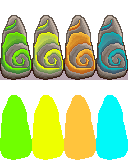
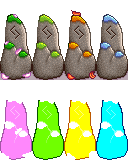
field stone edits

diff --git a/Buildings/FieldStone.cs b/Buildings/FieldStone.cs
@@ -3,6 +3,8 @@ using Microsoft.Xna.Framework;
 using Microsoft.Xna.Framework.Graphics;
 using Netcode;
 using StardewValley;
+using StardewValley.Extensions;
+using StardewValley.GameData.Buildings;
 using StardewValley.TerrainFeatures;
 using StarModGen.Lib;
 using System.Xml.Serialization;
@@ -17,8 +19,19 @@ public class FieldStone : EffectBuilding
 	private static EffectState state = new() { VerticalOffset = true, DepthOffset = 1f };
 
 	private readonly NetInt radius = new();
+	private readonly SpriteEmitter particles = new("Runes");
+	private Color[] _colors = [];
+	private Color[] Colors
+	{
+		get
+		{
+			if (_colors.Length is 0)
+				_colors = LoadColors();
+			return _colors;
+		}
+	}
 
-    protected override EffectState effectState 
+	protected override EffectState effectState 
 	{ 
 		get => state; 
 		set => state = value;
@@ -29,7 +42,7 @@ public class FieldStone : EffectBuilding
 		set => radius.Value = value;
 	}
 
-    public FieldStone(Vector2 tile) : base(tile, ID) { }
+	public FieldStone(Vector2 tile) : base(tile, ID) { }
 
 	public FieldStone() : base() { }
 
@@ -37,6 +50,56 @@ public class FieldStone : EffectBuilding
 	{
 		base.initNetFields();
 		NetFields.AddField(radius);
+	}
+
+	public override void Update(GameTime time)
+	{
+		base.Update(time);
+		float depth = (tileY.Value * 64) / 10000f;
+		particles.Update(time, depth);
+
+		float chance = (Radius * 2 + tilesWide.Value) * (Radius * 2 + tilesHigh.Value) * .005f;
+		if (Game1.random.NextBool(chance) && Game1.currentLocation is GameLocation where)
+		{
+			// effect bounds
+			var bounds = this.GetBounds();
+			bounds.Inflate(Radius, Radius);
+
+			// tile space
+			var pnt = Game1.random.NextPoint(bounds).ToVector2();
+			if (where.terrainFeatures.TryGetValue(pnt, out var tf) && tf is HoeDirt)
+			{
+				// local world space
+				pnt = new(
+					(pnt.X - tileX.Value) * 64f + (float)Game1.random.NextDouble() * 16f - 8f, 
+					(pnt.Y - tileY.Value) * 64f + (float)Game1.random.NextDouble() * 16f - 8f
+				);
+				var part = particles.Emit(pnt, depth + pnt.Y / 10000f);
+				part.motion = new((float)Game1.random.NextDouble() * 1f - .5f, -1f);
+				var which = Game1.random.Next(4) * 16;
+				part.sourceRect.X += which;
+				part.sourceRectStartingPos.X += which;
+				part.color = Colors[where.GetSeasonIndex()];
+			}
+		}
+	}
+
+    public override void draw(SpriteBatch b)
+    {
+        base.draw(b);
+		particles.Draw(b, Game1.GlobalToLocal(new(tileX.Value * 64f, tileY.Value * 64f)));
+    }
+
+
+	public override BuildingData ReloadBuildingData(bool forUpgrade = false, bool forConstruction = false)
+	{
+		var data = base.ReloadBuildingData(forUpgrade, forConstruction);
+
+		_colors = [];
+		if (this.TryGetCustomField(data, MOD_ID + "_EffectRadius", out var s) && int.TryParse(s, out var r))
+			Radius = r;
+
+		return data;
 	}
 
 	[ModEvent]
@@ -49,6 +112,24 @@ public class FieldStone : EffectBuilding
 			.With<HoeDirt>(nameof(HoeDirt.GetFertilizerWaterRetentionChance)).Postfix(ModifyWater)
 			.With(nameof(HoeDirt.GetFertilizerSpeedBoost)).Postfix(ModifySpeed)
 			.With(nameof(HoeDirt.GetFertilizerQualityBoostLevel)).Postfix(ModifyQuality);
+	}
+
+	private Color[] LoadColors()
+	{
+		if (!this.TryGetCustomField(MOD_ID + "_ParticleColor", out var v))
+			return [Color.White, Color.White, Color.White, Color.White];
+
+		var split = v.Split(',');
+		var ret = new Color[4];
+		for (int i = 0; i < 4; i++)
+		{
+			if (i < split.Length)
+				ret[i] = Utility.StringToColor(split[i]) ?? Color.White;
+			else
+				ret[i] = Color.White;
+		}
+
+		return ret;
 	}
 
 	private static float ModifyWater(float original, HoeDirt __instance)
@@ -89,7 +170,8 @@ public class FieldStone : EffectBuilding
 
 			var radius = stone.Radius;
 			var bounds = b.GetBounds();
-			items.Add(new(bounds.Left - radius, bounds.Top - radius, bounds.Width + radius * 2, bounds.Height + radius * 2));
+			bounds.Inflate(radius, radius);
+			items.Add(bounds);
 		}
 
 		LocationBuildingCache[where] = items;
@@ -104,7 +186,5 @@ public class FieldStone : EffectBuilding
 	protected override void UpdateParams(Effect effect)
 	{
 		effect.Parameters["Time"].SetValue((float)Game1.currentGameTime.TotalGameTime.TotalSeconds);
-		if (state.Buffer != null)
-			effect.Parameters["Resolution"].SetValue(state.Buffer.Bounds.Size.ToVector2());
 	}
 }

diff --git a/Framework/ModUtilities.cs b/Framework/ModUtilities.cs
@@ -33,6 +33,11 @@ namespace FunkyBuildings.Framework
 		public static string Parse(this string text, Farmer? who = null)
 			=> TokenParser.ParseText(text, player: who ?? Game1.player);
 
+		public static Point NextPoint(this Random rand, Rectangle region)
+		{
+			return new(rand.Next(region.Width) + region.X, rand.Next(region.Height) + region.Y);
+		}
+
 		public static Effect LoadEffect(string path)
 		{
 			byte[] raw =
@@ -59,15 +64,21 @@ namespace FunkyBuildings.Framework
 
 		public static bool TryGetCustomField(this Building b, string key, [NotNullWhen(true)] out string? value)
 		{
+			return TryGetCustomField(b, b?.GetData(), key, out value);
+		}
+
+		public static bool TryGetCustomField(this Building b, BuildingData? data, string key, [NotNullWhen(true)] out string? value)
+		{
 			value = null;
 
-			if (b.GetData() is not BuildingData data)
+			if (data is null)
 				return false;
 
 			if (data.CustomFields is not Dictionary<string, string> fields)
 				return false;
 
 			return fields.TryGetValue(key, out value);
+
 		}
 	}
 }
